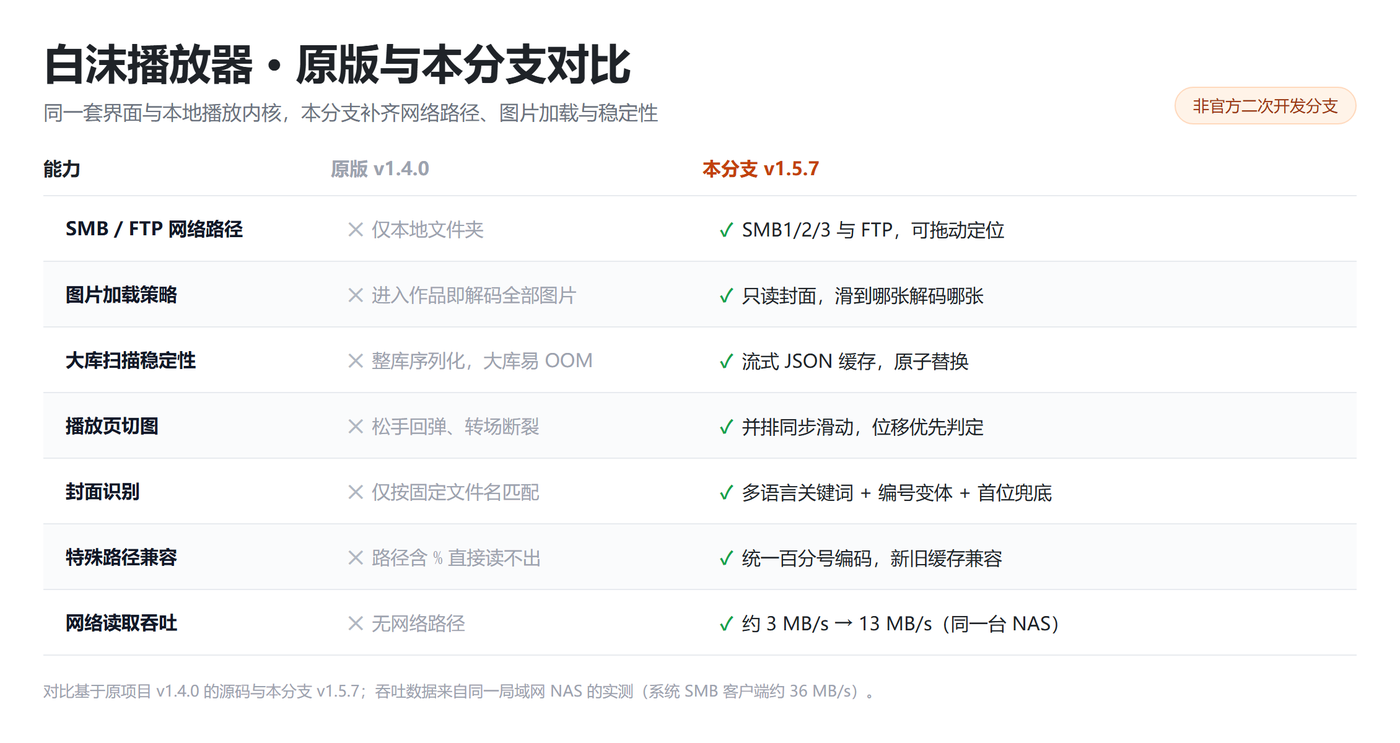
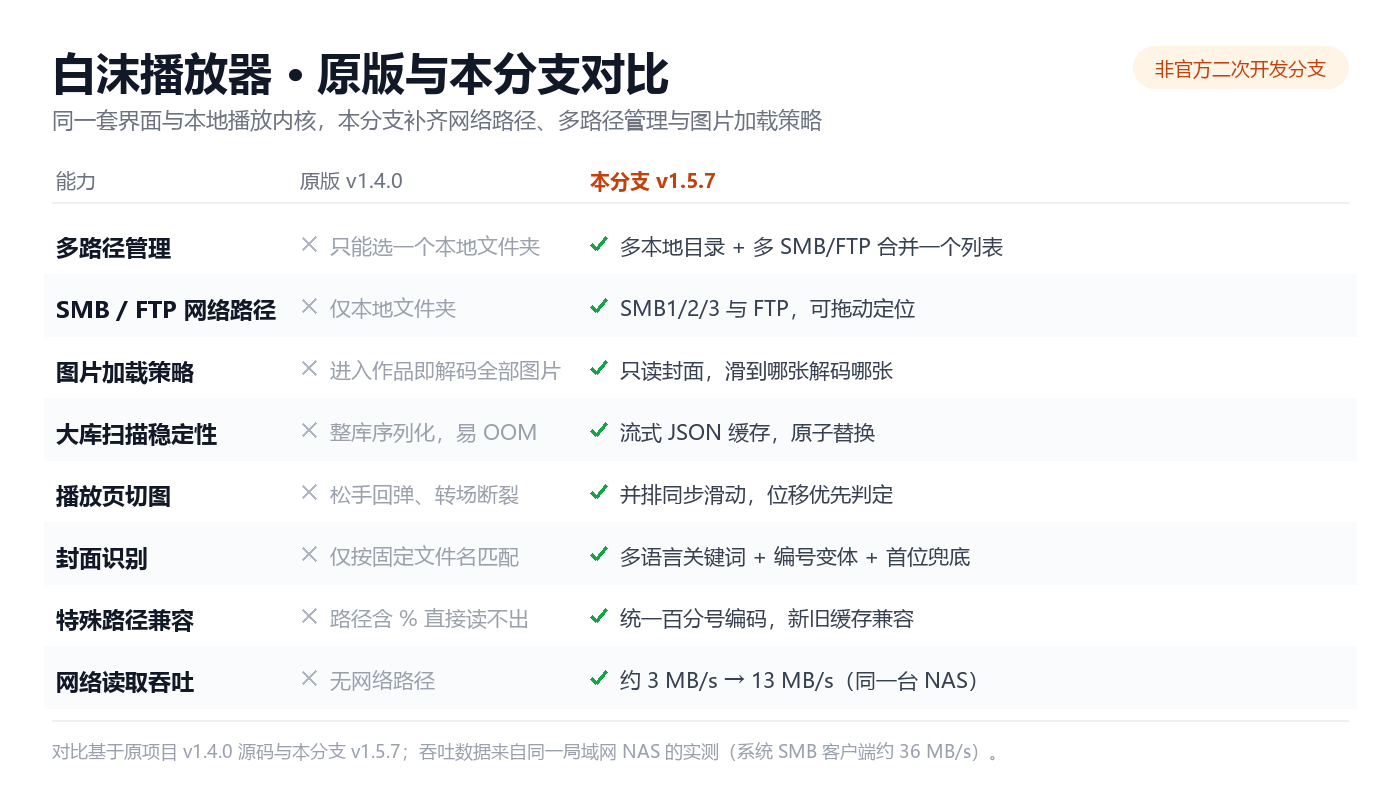
docs: 补充多路径等特性说明，对比图同步为 8 项
- 对比表新增「路径管理」「网络目录扫描」「台词」三行
- 新增小节说明多本地目录与多 SMB/FTP 路径如何合并、筛选、判重、迁移
- compare.png 重制，补上多路径管理一项

diff --git a/README.md b/README.md
@@ -28,7 +28,10 @@
 
 | 方向 | 原版 v1.4.0 | 本分支 v1.5.7 |
 |---|---|---|
+| 路径管理 | 只能选**一个**本地文件夹 | 本地文件夹与 SMB / FTP 路径可**同时添加多条**，合并进同一个作品列表；多于 1 条时顶部出现「全部 / 单个路径」筛选条，可逐条移除 |
 | 网络路径 | 仅本地文件夹 | 新增 SMB（jcifs-ng）与 FTP：连接测试、递归扫描、流式播放、`Range` 拖动定位、远程封面与字幕 |
+| 网络目录扫描 | — | 自动重扫节流至 60 秒；跳过 `#recycle`、`@eaDir`、`System Volume Information` 等 NAS 系统目录 |
+| 台词 | 解析走主线程 | 解析移到后台线程，网络路径下不再阻塞；台词页支持左右滑动返回播放页 |
 | 图片加载 | 进入作品即读取并解码全部图片 | 列表只读封面，播放页滑到哪张才解码哪张；封面缩略图落盘缓存 |
 | 大库稳定性 | 整库序列化进 SharedPreferences，大库易 OOM | 流式 JSON 缓存（作品级图片池 + 原子替换），后台写入 |
 | 排序 | 基础文件名排序 | 统一 `NameOrder`：`track` / `tr` 视为序号整体，全角归一，数字 > 英文 > 中文 |
@@ -36,6 +39,21 @@
 | 播放页切图 | 松手回弹到反方向、转场断裂 | 新旧两图并排同步滑动，方向由位移决定，支持打断 |
 | 特殊路径 | 路径含 `%` 的作品读不出 | 统一 UTF-8 百分号编码，新旧缓存都兼容 |
 | 界面 | — | 白色极简主题 + 深色切换、真实波形进度条、设置页可滚动、全屏看图白底 |
+
+### 多路径：一个列表管所有来源
+
+原版只能选一个文件夹，换个目录就得重新选、列表也跟着换。本分支的路径列表可以同时放：
+
+- **多个本地文件夹**——系统文件夹选择器，内部存储、SD 卡、网盘客户端挂载的目录都行；
+- **多个 SMB / FTP 网络路径**——设置页 →「添加网络路径」，可先「测试连接」再保存。
+
+它们合并成**同一个作品列表**，统一按 `NameOrder` 排序，不按来源分组，所以「同一个系列散落在手机和 NAS 上」也能连着往下听。路径本身的顺序是本地文件夹在前、网络路径在后。
+
+- **筛选条**：路径多于 1 条时，列表顶部出现「全部 / 各路径」横向筛选条，点一下只看某个来源；只有 1 条路径时不显示，与原版观感一致。
+- **判重**：重复添加同一文件夹会提示「该文件夹已在路径列表中」；网络路径按「类型 + 主机 + 端口 + 目录」判重，换个共享名照样能加。
+- **逐条移除**：设置页每条路径右侧有移除按钮，只删这一条并释放该文件夹的持久授权，其他路径不受影响，随后自动重扫。
+- **旧配置自动迁移**：原版存的单一路径会在新版本首次启动时自动读进路径列表，不用重新授权。
+- **缓存合并**：所有路径的扫描结果写在同一份 `library_cache_v4.json` 里，冷启动一次加载，不会按路径分别转圈。
 
 ### 图片加载策略的差别
 
@@ -49,7 +67,7 @@
 
 **① 网络路径（v1.5.0）**
 
-设置页 →「添加网络路径」填写类型、地址、端口、共享名/目录、账号密码，可先「测试连接」再保存。播放通过本地 `127.0.0.1` HTTP 代理转流，因此支持进度条拖动。
+设置页 →「添加网络路径」填写类型、地址、端口、共享名/目录、账号密码，可先「测试连接」再保存。**可添加多条**，与本地文件夹共存于同一个作品列表。播放通过本地 `127.0.0.1` HTTP 代理转流，因此支持进度条拖动。
 
 ```text
 SMB：smb://192.168.1.10/共享名/子目录
